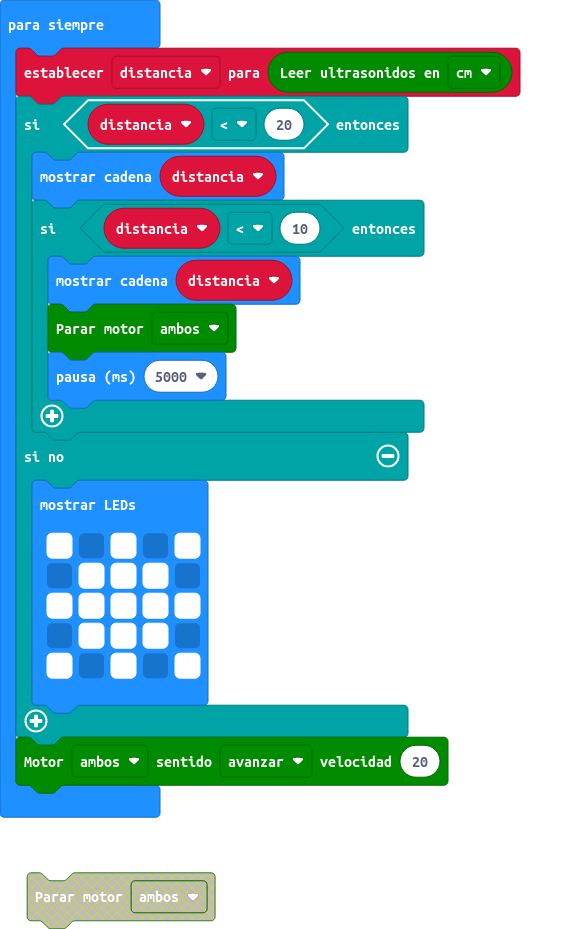
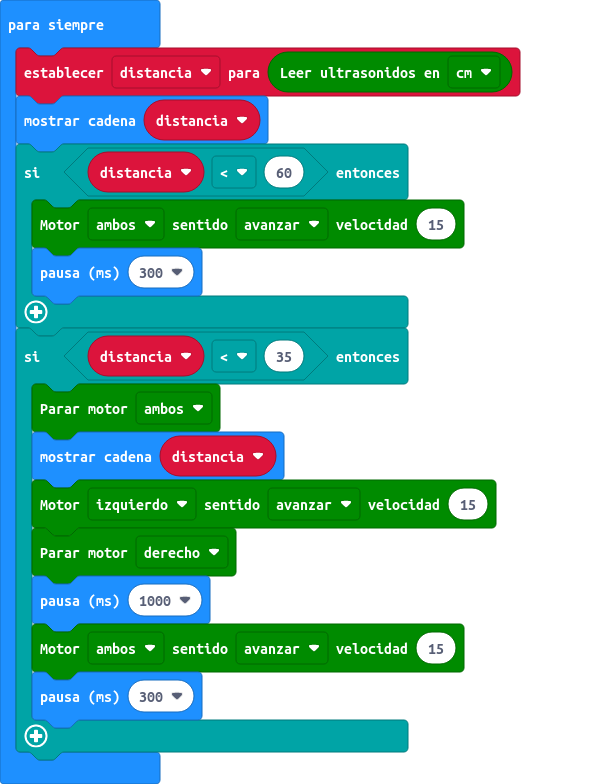
Actualizar main.blocks, main.ts

diff --git a/main.ts b/main.ts
@@ -1,21 +1,18 @@
 let distancia = 0
 basic.forever(function () {
     distancia = maqueen.Ultrasonic(PingUnit.Centimeters)
-    if (distancia < 20) {
-        basic.showString("" + (distancia))
-        if (distancia < 10) {
-            basic.showString("" + (distancia))
-            maqueen.motorStop(maqueen.Motors.All)
-            basic.pause(5000)
-        }
-    } else {
-        basic.showLeds(`
-            # . # . #
-            . # # # .
-            # # # # #
-            . # # # .
-            # . # . #
-            `)
+    basic.showString("" + (distancia))
+    if (distancia < 60) {
+        maqueen.motorRun(maqueen.Motors.All, maqueen.Dir.CW, 15)
+        basic.pause(300)
     }
-    maqueen.motorRun(maqueen.Motors.All, maqueen.Dir.CW, 20)
+    if (distancia < 35) {
+        maqueen.motorStop(maqueen.Motors.All)
+        basic.showString("" + (distancia))
+        maqueen.motorRun(maqueen.Motors.M1, maqueen.Dir.CW, 15)
+        maqueen.motorStop(maqueen.Motors.M2)
+        basic.pause(1000)
+        maqueen.motorRun(maqueen.Motors.All, maqueen.Dir.CW, 15)
+        basic.pause(300)
+    }
 })
